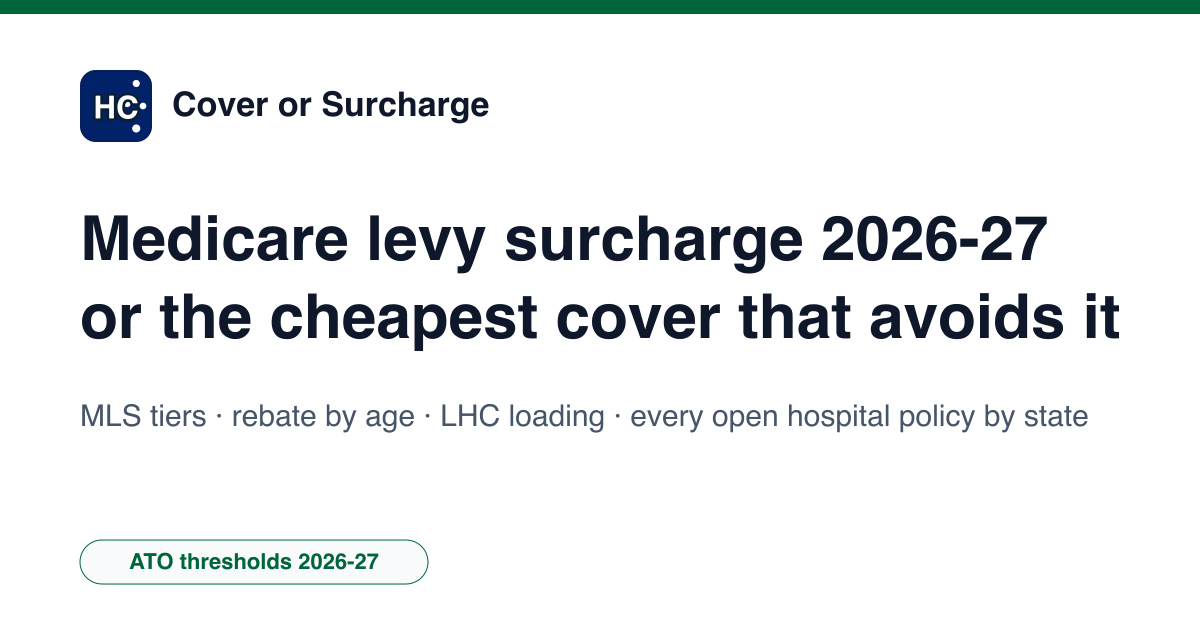
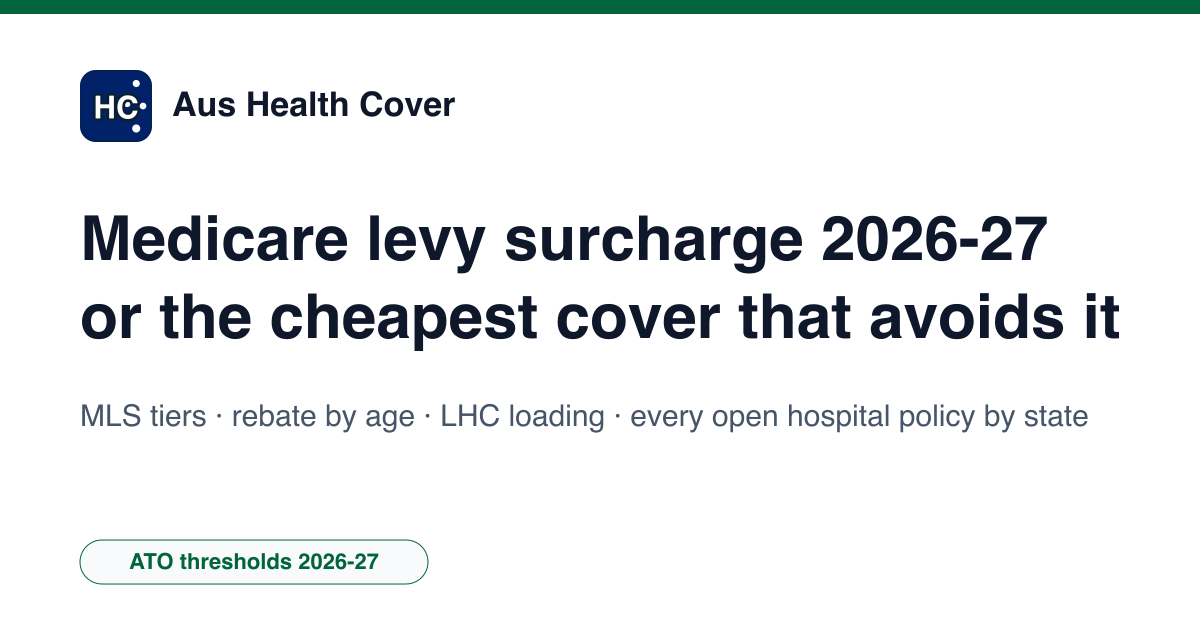
Domaine aushealthcover.com : adresse, marque Aus Health Cover, CNAME et déploiement GitHub Pages avec ping IndexNow

Changed region(s): [[0.1233, 0.1508, 0.4317, 0.2111]]

diff --git a/src/data/site-config.ts b/src/data/site-config.ts
@@ -1,6 +1,6 @@
 /** Configuration centrale du site (générée par new-site.py). */
-export const SITE_URL = "https://au-health-cover.example";
-export const SITE_NAMES: Record<string, string> = {"en": "Cover or Surcharge"};
+export const SITE_URL = "https://aushealthcover.com";
+export const SITE_NAMES: Record<string, string> = {"en": "Aus Health Cover"};
 export const LANG_TAGS: Record<string, string> = {"en": "en-AU"};
 export const OG_LOCALES: Record<string, string> = {"en": "en_AU"};
 export const LOCALE_TAG = 'en-AU';
@@ -16,7 +16,7 @@ export const AUTHOR_DESC: Record<string, string> = {"en": "Radif Partners reads 
  *  themes reellement traites par le site, pas une liste de mots-cles : un sujet
  *  declare ici sans page qui le couvre est une declaration fausse. */
 export const KNOWS_ABOUT: Record<string, string[]> = {"en": ["Medicare levy surcharge thresholds and tiers", "Income for Medicare levy surcharge purposes", "Private health insurance rebate tiers and age bands", "Lifetime Health Cover loading, base day and days of absence", "Appropriate level of private patient hospital cover and excess limits", "Hospital policy premiums by state from PrivateHealth.gov.au data"]};
-export const CONTACT_EMAIL = "contact@au-health-cover.example";
+export const CONTACT_EMAIL = "contact@aushealthcover.com";
 export const THEME_COLOR = '#00653A';
 export const LOGO_SYMBOL = 'HC';
 export const BING_VERIFY_CODE = '';
